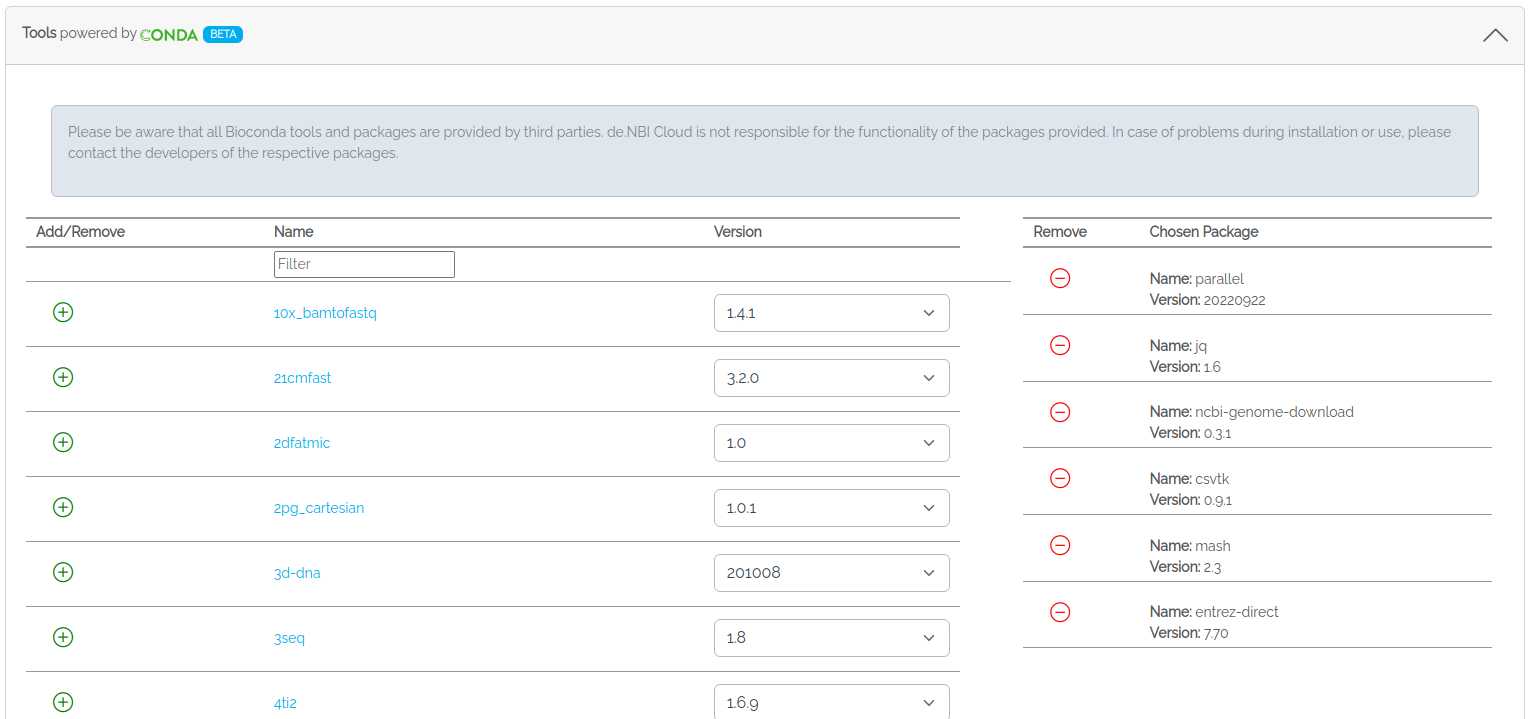
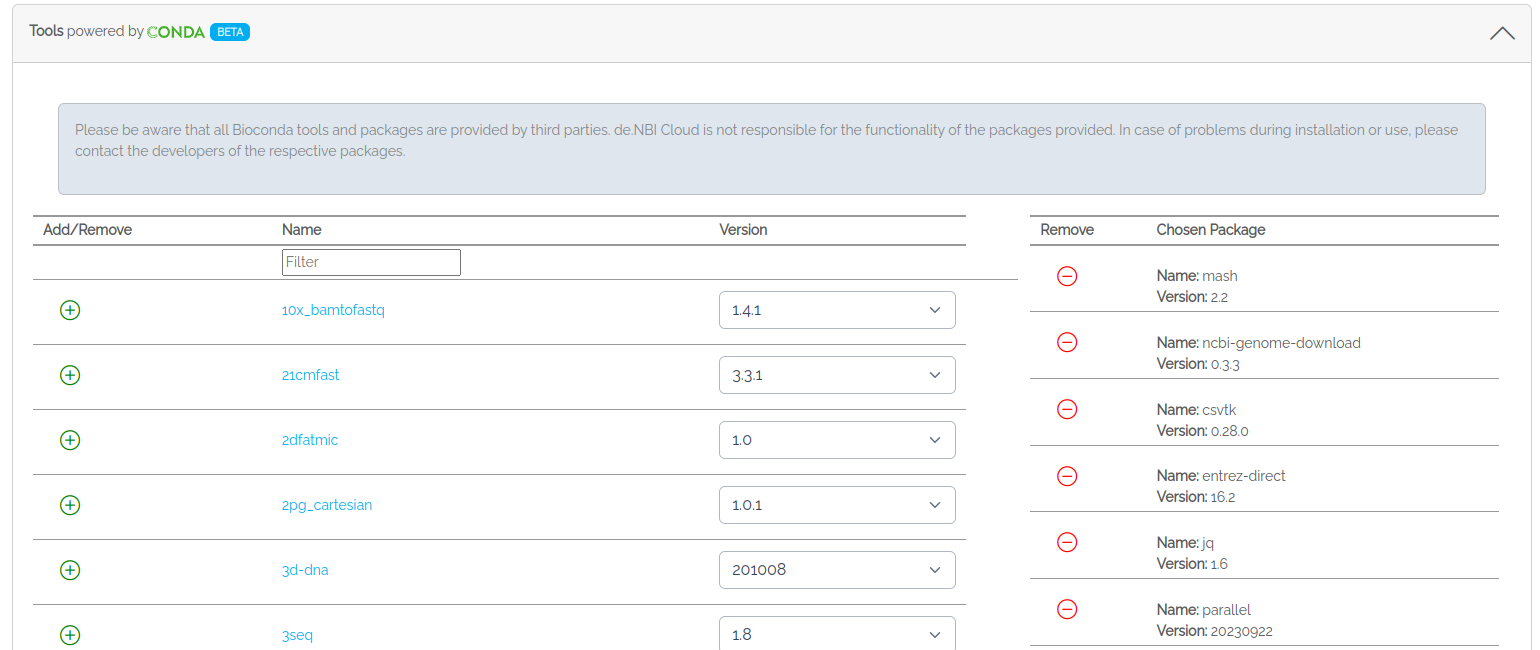
simplify commands

diff --git a/part2.md b/part2.md
@@ -60,49 +60,4 @@ Log in to the VM and verify that SimpleVM provisioned the VM correctly.
    /usr/games/fortune | /usr/games/cowsay 
    ```
 
-### 2.2 Search for a genome 
-
-We will search for a genome in our dataset by using Mash. Mash needs first
-to index the genome via `mash sketch` and search for it in a metagenome dataset by using `mash screen`.
-We will plot a histogram on the terminal for a quick check.
-
-1. Let's download an example genome and dataset by running
-   ```
-   ncbi-genome-download -o output --flat-output  -s refseq -A GCF_000806805.1 bacteria -F fasta
-   ```
-   and
-   ```
-   wget https://openstack.cebitec.uni-bielefeld.de:8080/ftp.era.ebi.ac.uk/vol1/fastq/SRR398/008/SRR3984908/SRR3984908_1.fastq.gz
-   ```
-
-2. Create a mash sketch of the genome
-   ```
-   mash sketch output/GCF_000806805.1_CFSAN024778_01.0_genomic.fna.gz
-   ```
-   Check if the index is created
-   ```
-   ls -la output/GCF_000806805.1_CFSAN024778_01.0_genomic.fna.gz.msh
-   ```
-
-3. Check if a randomly chosen dataset contains our genome.  
-   ```
-   mash screen -p 2 output/GCF_000806805.1_CFSAN024778_01.0_genomic.fna.gz.msh SRR3984908_1.fastq.gz > out.txt
-   ```
-
-4. You can view the results by using cat. You will see that there is just one match.
-   ```
-   cat out.txt
-   ```
-
-### 2.3 Create a Snapshot
-
-Since your tools work as expected, you should now create a snapshot of your
-VM for later use. Before you do this, you should first stop your VM so that
-no data corruption appears. For this reason, please click on `Show Actions` and `Stop VM`. 
-Once your VM is stopped click on `Show Actions` and `Create Snapshot`.
-Please use your name without whitespace (Example: Max Mustermann -> MaxMusterman).
-The upload of your snapshot might take a few minutes.
-
-![](figures/snapshot.png)
-
 Back to [Section 1](part1.md) | Next to [Section 3](part3.md)

diff --git a/part1.md b/part1.md
@@ -33,7 +33,7 @@ SSH keys: https://cloud.denbi.de/wiki/portal/user_information/#ssh-key
 3. In the image section, please click on the *Research Environments* tab 
    and select the **TheiaIDE-ubuntu2204** image.
    ![](./figures/theiaImage.png)
-4. Select the Conda tab and choose the following tools in their latest available version for installation via Conda: 
+4. Select the Conda tab and choose the following tools with their version numbers as shown in the following screenshot for installation via Conda:
    * ncbi-genome-download
    * mash
    * csvtk
